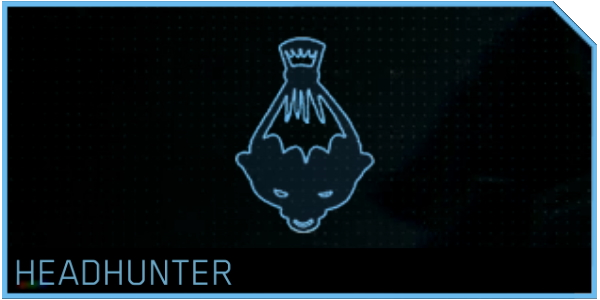
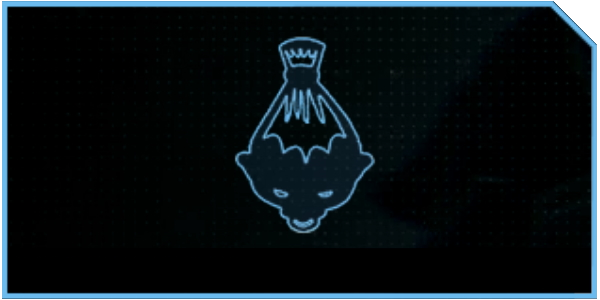
dark mode. auto-insert text for game modes

Changed region(s): [[0.0, 0.84, 0.39, 0.96]]

diff --git a/src/lib/components/ModeTile.svelte b/src/lib/components/ModeTile.svelte
@@ -6,12 +6,8 @@
 </script>
 
 <div class="mode" class:selected on:click on:keyup>
-	<div class="title-bar">
-		<div class="title">
-			{mode.name}
-		</div>
-	</div>
 	<div class="image-container">
+		<span class="name">{mode.name}</span>
 		<img src={mode.imageUrl} alt="{mode.name} thumbnail" />
 	</div>
 </div>
@@ -19,27 +15,24 @@
 <style>
 	.mode {
 		display: inline-block;
-		border: 1px solid grey;
-		background-color: #061011;
+		/* border: 1px solid grey; */
+		/* background-color: #061011; */
 		border-radius: 5px;
 		vertical-align: middle;
-		padding: 2px;
+		padding: 3px;
 		margin: 5px;
 		width: 200px;
-		height: 134px;
 		overflow: hidden;
 		cursor: pointer;
 		position: relative;
 	}
-	.title-bar {
-		color: white;
-		text-align: center;
-		font-weight: bold;
-		display: block;
-		/* height: 20px; */
-		padding-right: 5px;
-		padding-left: 3px;
-		position: relative;
+	.name {
+		position: absolute;
+		font-family: Arial, Helvetica, sans-serif;
+		color: #6fbaea;
+		font-size: .8em;
+		bottom: 6px;
+		left: 5px
 	}
 
 	.image-container {

diff --git a/src/style.css b/src/style.css
@@ -13,6 +13,8 @@ body {
     height: 100%;
     margin: 0;
     padding: 0;
+    background-color: #121212;
+    color: #FFFFFF;
 }
 
 button {
